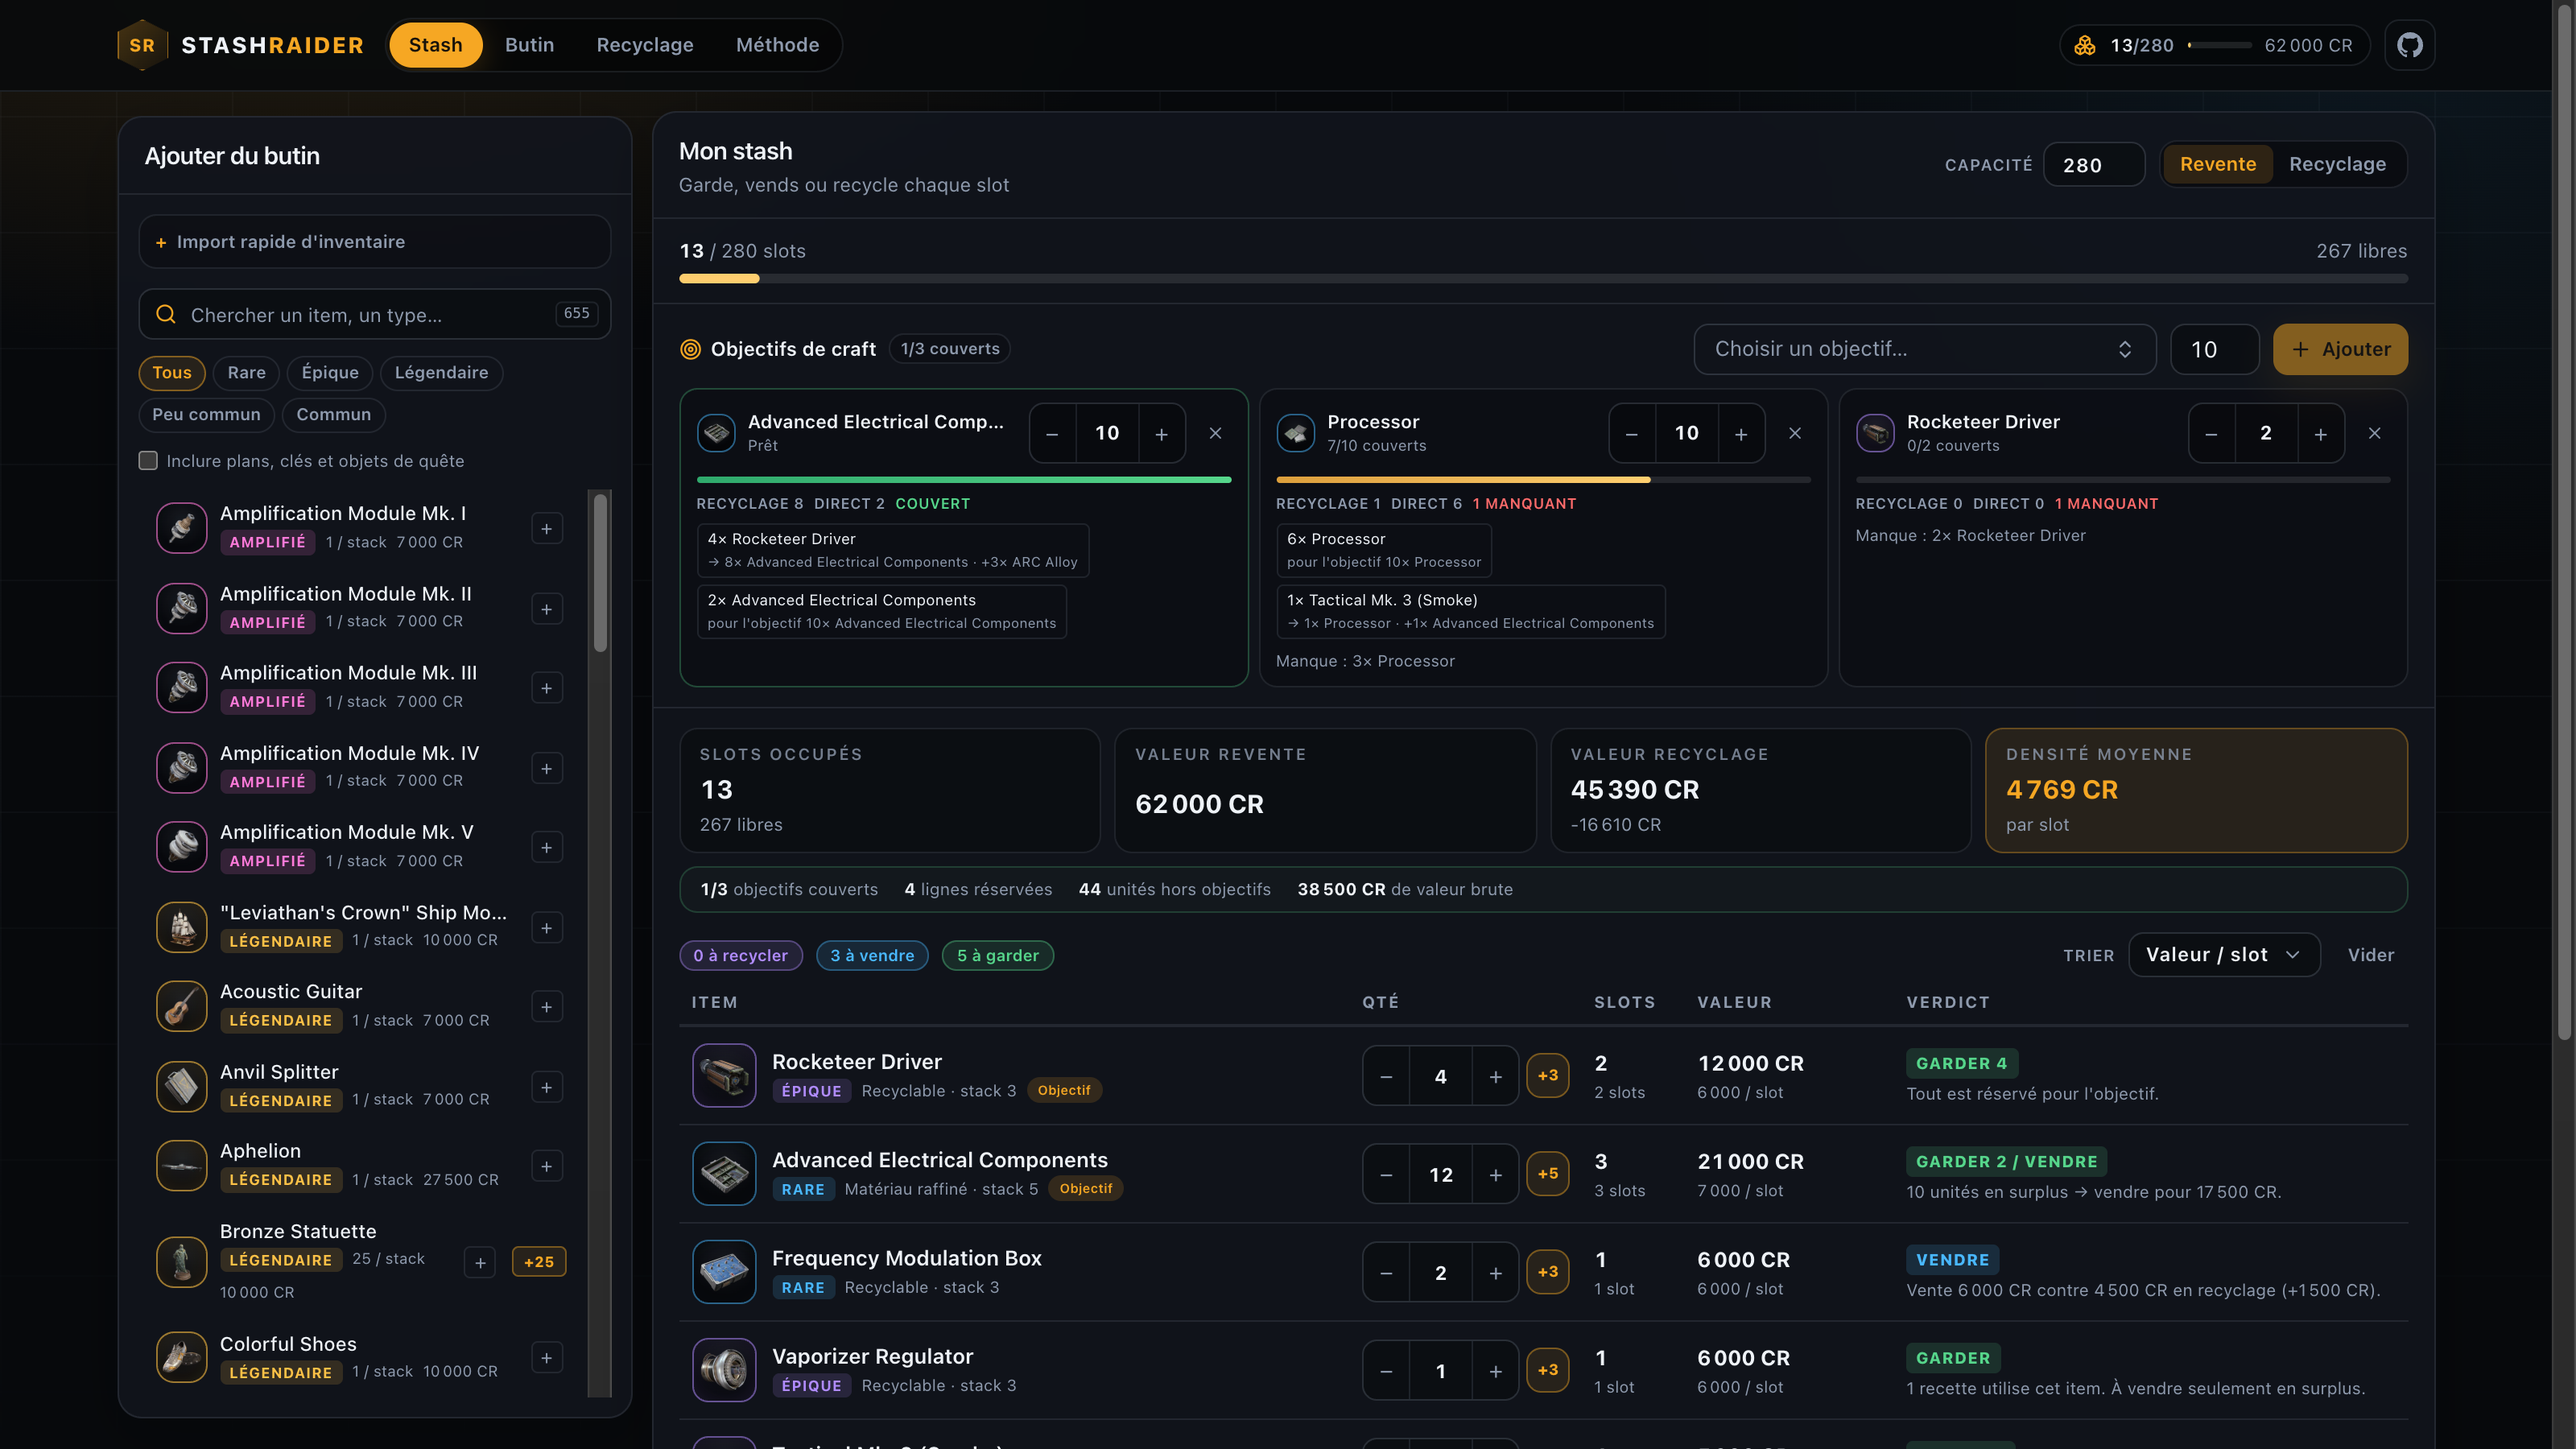
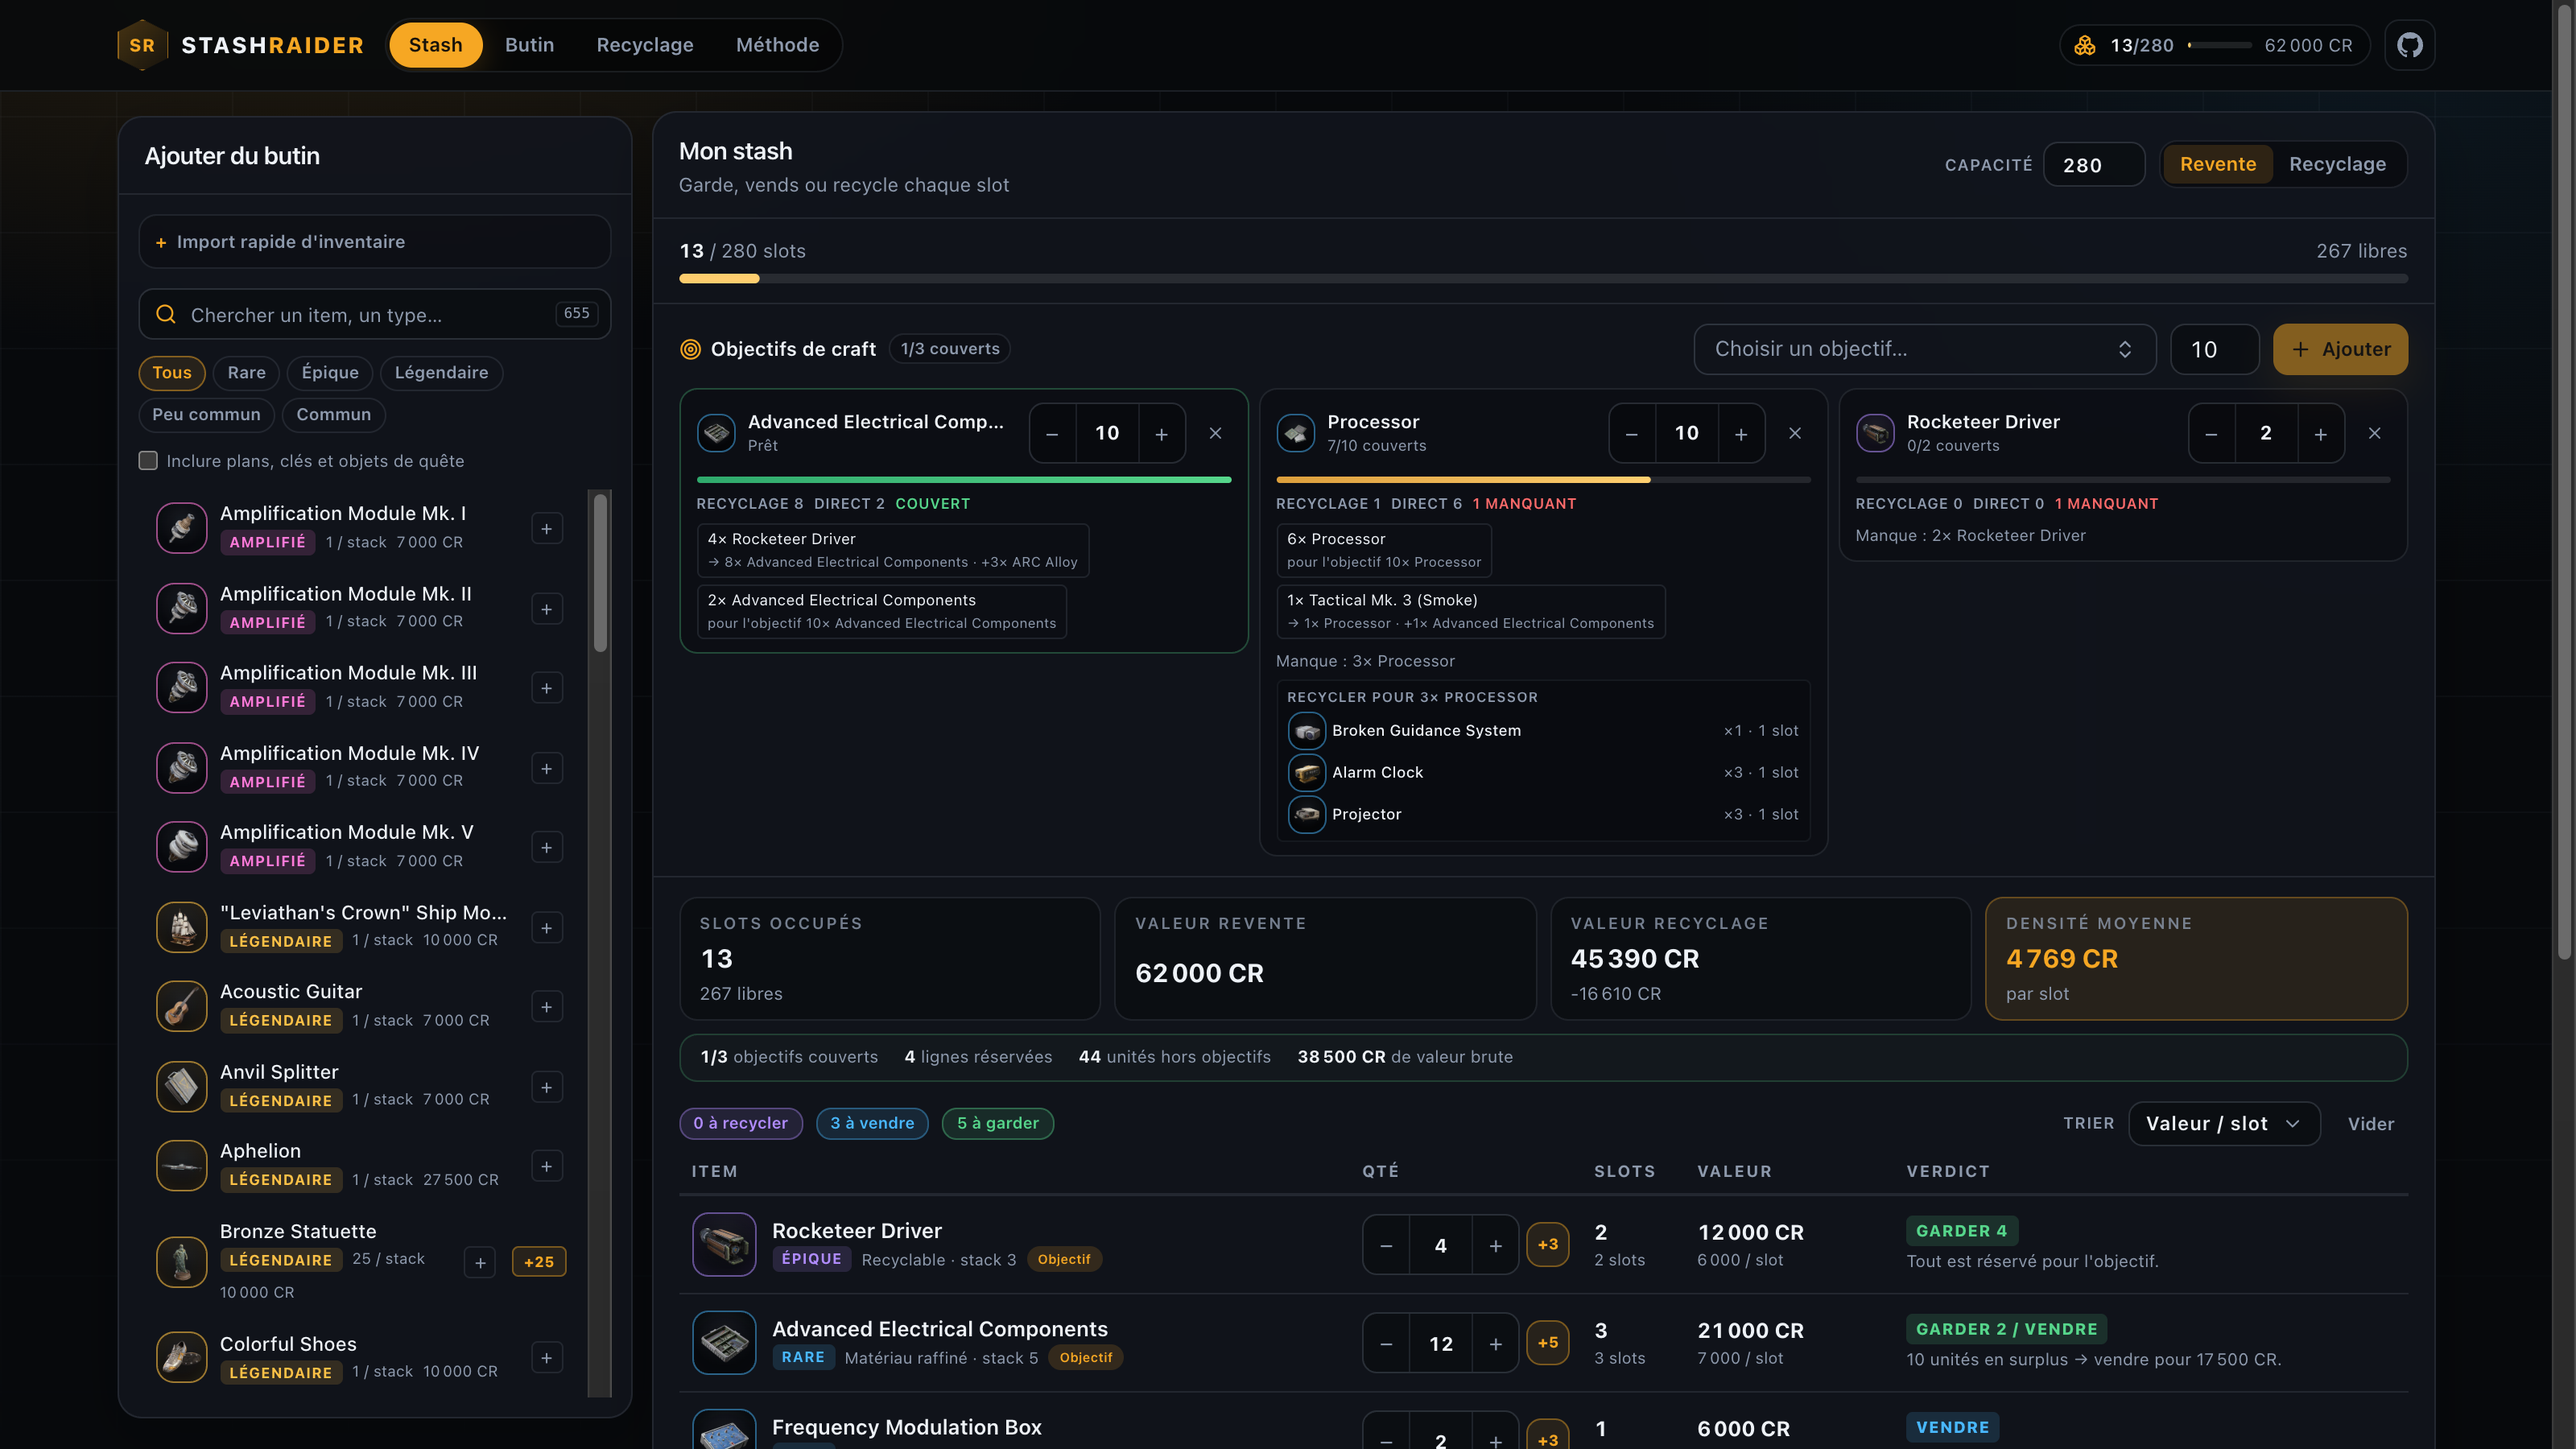
feat(goals): suggest recyclable sources for missing ingredients

diff --git a/src/components/goals-panel.tsx b/src/components/goals-panel.tsx
@@ -7,7 +7,8 @@ import { NumberInput } from "@/components/ui/number-input";
 import { Progress } from "@/components/ui/progress";
 import { itemsById, typeLabel, type CatalogItem } from "@/lib/catalog";
 import { toItemId, type ItemId } from "@/lib/catalog-types";
-import { objectiveReasonText } from "@/lib/copy";
+import { objectiveReasonText, plural } from "@/lib/copy";
+import { missingSourcePlans } from "@/lib/reverse";
 import type { Goal, RetentionPlan } from "@/lib/retention";
 import { cn } from "@/lib/utils";
 import { ItemIcon, QtyStepper, RarityBadge } from "./ui";
@@ -107,7 +108,7 @@ export const GoalsPanel = ({
           plus denses avant de désigner le surplus à vendre.
         </p>
       ) : (
-        <div className="mt-2 grid gap-1.5 sm:grid-cols-2 xl:grid-cols-3">
+        <div className="mt-2 grid items-start gap-1.5 sm:grid-cols-2 xl:grid-cols-3">
           {plans.map((goal) => {
             const coveredPercent =
               goal.needed > 0 ? Math.min(100, (goal.covered / goal.needed) * 100) : 0;
@@ -192,10 +193,38 @@ export const GoalsPanel = ({
                 ) : null}
 
                 {goal.missing.length > 0 ? (
-                  <p className="mt-1.5 text-[10px] text-muted-foreground">
-                    Manque :{" "}
-                    {goal.missing.map((entry) => `${entry.qty}× ${entry.name}`).join(" · ")}
-                  </p>
+                  <div className="mt-1.5 grid gap-1">
+                    <p className="text-[10px] text-muted-foreground">
+                      Manque :{" "}
+                      {goal.missing.map((entry) => `${entry.qty}× ${entry.name}`).join(" · ")}
+                    </p>
+                    {goal.missing.map((entry) => {
+                      const sources = missingSourcePlans(entry.name, entry.qty);
+                      if (sources.length === 0) return null;
+                      return (
+                        <div
+                          key={entry.name}
+                          className="grid gap-0.5 rounded border border-border/60 bg-black/20 px-1.5 py-1"
+                        >
+                          <span className="text-[8.5px] font-semibold tracking-wider text-muted-foreground uppercase">
+                            Recycler pour {entry.qty}× {entry.name}
+                          </span>
+                          {sources.map((source) => (
+                            <span
+                              key={source.item.id}
+                              className="flex min-w-0 items-center gap-1 text-[9.5px]"
+                            >
+                              <ItemIcon item={source.item} size="xs" />
+                              <span className="truncate font-medium">{source.item.name}</span>
+                              <span className="ml-auto shrink-0 text-muted-foreground tabular-nums">
+                                ×{source.unitsNeeded} · {plural(source.slotsNeeded, "slot")}
+                              </span>
+                            </span>
+                          ))}
+                        </div>
+                      );
+                    })}
+                  </div>
                 ) : null}
               </article>
             );

diff --git a/src/lib/reverse.test.ts b/src/lib/reverse.test.ts
@@ -1,6 +1,6 @@
 import { describe, expect, it } from "vitest";
 import { toItemId } from "./catalog-types";
-import { planTarget, reverseSources } from "./reverse";
+import { missingSourcePlans, planTarget, reverseSources } from "./reverse";
 
 const advancedElectrical = toItemId("advanced-electrical-components");
 
@@ -18,5 +18,21 @@ describe("reverse lookup", () => {
     expect(rocketeer?.unitsNeeded).toBe(5);
     expect(rocketeer?.slotsNeeded).toBe(2);
     expect(rocketeer?.leftover).toBe(0);
+  });
+});
+
+describe("missing ingredient sources", () => {
+  it("suggests the cheapest recyclable sources for a missing ingredient", () => {
+    const plans = missingSourcePlans("Oil", 5);
+
+    expect(plans).toHaveLength(3);
+    expect(plans[0]?.item.name).toBe("Coolant");
+    expect(plans[0]?.unitsNeeded).toBe(3);
+    expect(plans[0]?.slotsNeeded).toBe(1);
+  });
+
+  it("returns nothing when the ingredient has no recyclable source", () => {
+    expect(missingSourcePlans("Unknown Item", 1)).toEqual([]);
+    expect(missingSourcePlans("Oil", 0)).toEqual([]);
   });
 });

diff --git a/src/lib/reverse.ts b/src/lib/reverse.ts
@@ -70,3 +70,9 @@ export const planTarget = (targetId: ItemId, needed: number): TargetPlan[] =>
         left.sellPerOutput - right.sellPerOutput ||
         left.unitsNeeded - right.unitsNeeded,
     );
+
+export const missingSourcePlans = (name: string, qty: number, limit = 3): TargetPlan[] => {
+  const target = itemByRecipeName(name);
+  if (!target || qty <= 0) return [];
+  return planTarget(target.id, qty).slice(0, limit);
+};
